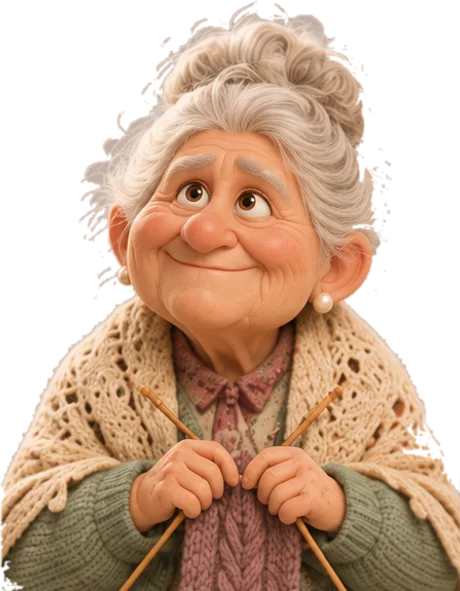
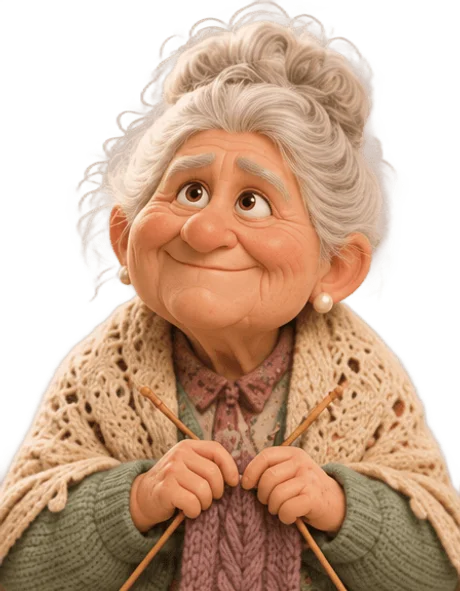
Games: 21 re-cut 3D portraits (Harbour Files Julian, Marcus, Hale, Meg, Ines, Mrs Dunn; Open House Grandma Ivy)
Julian and Marcus had holes in their faces; Hale, Meg, Ines and Grandma Ivy had a light fringe
round the hair; Mrs Dunn (C1 The Missing Logbook) had been drawn as a man in a captain's cap and
is now the woman cleaner. Same file names, manifest entries ?v=hf1 -> ?v=hf3, SW bumped so phones
refetch. Mrs Dunn already speaks in a woman's voice (G2_SEX mystery.dunn = f; voice-gender-check passes).

diff --git a/app/farin-sw.js b/app/farin-sw.js
@@ -1,4 +1,4 @@
-const CACHE = 'farin-english-v60';   // v60 2026-11-27: Harbour Files A1 opening hall (a1-plate-n12-hall-wide-hf.webp, the title card and hub); v59 2026-11-26: 13 Red Suitcase panels fixed (*-hf2.webp: A2 no fez / bowler / torches, the old camera; Whitby out of the window in A1 3.1 and 3.3); v58 v58 2026-11-26: Build It + Magic Words in their 9:16 3D rooms (the 3D lighthouse, doors, medallion, plaque, garden; THEATRE_VER 32); v57 2026-11-26: Open House in 3D (rooms + cut-outs repainted under the same names, manifest ?v=hf2, layers re-boxed); v56 2026-11-26: the quick games play in farin-e9's 9:16 3D rooms (Order Up!, Passport Desk, Listen & Type, Say It Back, Pier Dash, Word Bingo, Mini Cross, Story Hunt, Word Rush) with the 3D cut-outs under the same names; v55 2026-11-26: the game art fills the whole page: every intro poster is full-screen 9:16 key art (games/posters/<kind>-full.webp, the Red Suitcase unlettered cover), the quick-game worlds edge to edge (Theatre 1.4); v54 2026-11-26: Harbour Files redrawn in 3D (story panels, search plates, evidence + finds, the 1970 photos; *-hf.webp), two find boxes moved; v53 v53 2026-11-26: The Red Suitcase's own names (Danny, Nadia, Cobb) with their voices, Higgsfield Then & Now pairs (A1 ch2/4, A2, B2), the 2.6 calendar; v52 v52 2026-11-26: The Red Suitcase albums A2 / B1 / B2 in the Higgsfield painterly art (*-hf.webp, covers cover-hf, real-type signs, engine 0.7.2); v51 v51 2026-11-26: FE from the new art on the membership box (Farin's 11-21 autumn picture, winter from 1 Jan) and Profile (king, wizard, suitcase, binoculars); the old-sheet pictures removed; v50 v50 2026-11-26: the Higgsfield game art (Open House + Harbour Files 3D portraits, the café plates, Passport Desk in the 3D booth, The Red Suitcase A1 painterly panels ch1-6 + ch2 as comic pages + covers); v49 2026-11-26: the last 3D posters + cards, Order Up! shelf pictures without slivers; v48 2026-11-26: Home without the profile and Premium courses boxes, the membership box in brand purple with FE in his season clothes, the settings button opens Profile (FE in a Special / Travel outfit, Settings in its head), Courses in the bottom bar; v47 v47 2026-11-26: Captain in 3D (pt-captain-*.webp, same names); v46 2026-11-26: premium courses only through Plus and Guided (no single-course request or price); vv45 2026-11-26: the games' microphones (Say It Back, Open House free line: tap to stop, no lost taps, says why); v44 2026-11-26: the practice score weighs the whole answer (length, sentences, variety, topic), not just its length; v43 2026-11-26: Messages shows only the chats (no News from Farin list); v42 2026-11-26: card posters with ?v=, image cache fills revalidate (no stale copies), Open House / Harbour Files names; v41 2026-11-26: the new 3D roadmap cards (art/posters/card-*.webp, same names) + 3D posters; v40 2026-11-26: speaking-club dates refresh themselves while a screen stays open, old bookings pruned; vv39 2026-11-25: speaking clubs free for Guided members (free seat request, admin cross-check); vv38 2026-11-25: Guided includes the Thursday speaking clubs free (package text + a My Groups card in the Guided panel), adminMbPlanFor for the clubs; v37 2026-11-25: Order Up! 3D café art, full-body customers (same file names for the shelf items: a new cache); v36 2026-11-25: speaking clubs (My Groups, Speaking Club! roadmap cards, admin Speaking clubs + put a learner in), Group classes section removed; vv35 2026-11-25: premium courses have no price of their own (Plus box: no per-course request link); membership pings can't hide an activation; v34 2026-11-25: Order Up! customer chats + the cozy café look (games/worlds/order/world.css, skins.js order, chat voice clips); v33 2026-11-25: the speaking microphone starts and stops reliably (Round 3 of a speaking card, the Say it chips, course + IELTS recorders); v32 2026-11-25: memberships Free / Plus / Guided (header entry, membership page, manual payments + admin Payments / Members, 48-hour intro offer, Plus box on premium courses, page report in Plus, roadmap invitations); v31 2026-11-25: Premium courses list as picture cards (photo per course, Plus access line); v30 2026-11-25: FEschool intro before the questions, the roadmap build after Go!; v29 2026-11-23: shorter group-class offer with the discount, In app class offers (Messages card, mailbox); v28 2026-11-23: admin Your week, drag a class to another time; v27 2026-11-23: group classes: one time each (new order), 8 seats then a new class, silent refit, codes EA/SA, no mid-private; v26 2026-11-23: group classes of 6–8, class price offer (toman + lira), new course prices; v25 2026-11-21: roadmap v4, the box holds the current card down to the end (page scrolls), finished cards above it out of view; v24 2026-11-21: app icon = white FE face on purple; v22 2026-11-21: the roadmap box scrolls on its own, current card at its top, no earlier-cards bar; v21 2026-11-21: sharp 900 px FE p-cheer, welcome card 300 px; v20 2026-11-21: Home opens at the top, current card first under the earlier-cards bar; v19 2026-11-21: welcome card = FE cheering, 200 px; v18 2026-11-21: admin class rows keep the name column (actions shrink + wrap); v17 2026-11-21: Messages v2 (clean list, brand status pills, admin reply context + edit/delete);   // v16 2026-11-21: welcome card = FE medal + confetti; v15 2026-11-21: admin Group classes, gold frame + Offer sent tick; v14 2026-11-21: roadmap cards (purple/white/orange, no symbols, solid circles, page report card, Home opens on the current card, plan bubble off); v13 2026-11-21: onboarding redesign + welcome screen; v11 2026-11-20: FE white (art/fe, notif/*, icon-*.png repainted under the same names), only the clean pose set
+const CACHE = 'farin-english-v61';   // v61 2026-11-27: 21 portraits re-cut (Harbour Files Julian, Marcus, Hale, Meg, Ines, Mrs Dunn as a woman; Open House Grandma Ivy; ?v=hf3); v60 2026-11-27: Harbour Files A1 opening hall (a1-plate-n12-hall-wide-hf.webp, the title card and hub); v59 2026-11-26: 13 Red Suitcase panels fixed (*-hf2.webp: A2 no fez / bowler / torches, the old camera; Whitby out of the window in A1 3.1 and 3.3); v58 v58 2026-11-26: Build It + Magic Words in their 9:16 3D rooms (the 3D lighthouse, doors, medallion, plaque, garden; THEATRE_VER 32); v57 2026-11-26: Open House in 3D (rooms + cut-outs repainted under the same names, manifest ?v=hf2, layers re-boxed); v56 2026-11-26: the quick games play in farin-e9's 9:16 3D rooms (Order Up!, Passport Desk, Listen & Type, Say It Back, Pier Dash, Word Bingo, Mini Cross, Story Hunt, Word Rush) with the 3D cut-outs under the same names; v55 2026-11-26: the game art fills the whole page: every intro poster is full-screen 9:16 key art (games/posters/<kind>-full.webp, the Red Suitcase unlettered cover), the quick-game worlds edge to edge (Theatre 1.4); v54 2026-11-26: Harbour Files redrawn in 3D (story panels, search plates, evidence + finds, the 1970 photos; *-hf.webp), two find boxes moved; v53 v53 2026-11-26: The Red Suitcase's own names (Danny, Nadia, Cobb) with their voices, Higgsfield Then & Now pairs (A1 ch2/4, A2, B2), the 2.6 calendar; v52 v52 2026-11-26: The Red Suitcase albums A2 / B1 / B2 in the Higgsfield painterly art (*-hf.webp, covers cover-hf, real-type signs, engine 0.7.2); v51 v51 2026-11-26: FE from the new art on the membership box (Farin's 11-21 autumn picture, winter from 1 Jan) and Profile (king, wizard, suitcase, binoculars); the old-sheet pictures removed; v50 v50 2026-11-26: the Higgsfield game art (Open House + Harbour Files 3D portraits, the café plates, Passport Desk in the 3D booth, The Red Suitcase A1 painterly panels ch1-6 + ch2 as comic pages + covers); v49 2026-11-26: the last 3D posters + cards, Order Up! shelf pictures without slivers; v48 2026-11-26: Home without the profile and Premium courses boxes, the membership box in brand purple with FE in his season clothes, the settings button opens Profile (FE in a Special / Travel outfit, Settings in its head), Courses in the bottom bar; v47 v47 2026-11-26: Captain in 3D (pt-captain-*.webp, same names); v46 2026-11-26: premium courses only through Plus and Guided (no single-course request or price); vv45 2026-11-26: the games' microphones (Say It Back, Open House free line: tap to stop, no lost taps, says why); v44 2026-11-26: the practice score weighs the whole answer (length, sentences, variety, topic), not just its length; v43 2026-11-26: Messages shows only the chats (no News from Farin list); v42 2026-11-26: card posters with ?v=, image cache fills revalidate (no stale copies), Open House / Harbour Files names; v41 2026-11-26: the new 3D roadmap cards (art/posters/card-*.webp, same names) + 3D posters; v40 2026-11-26: speaking-club dates refresh themselves while a screen stays open, old bookings pruned; vv39 2026-11-25: speaking clubs free for Guided members (free seat request, admin cross-check); vv38 2026-11-25: Guided includes the Thursday speaking clubs free (package text + a My Groups card in the Guided panel), adminMbPlanFor for the clubs; v37 2026-11-25: Order Up! 3D café art, full-body customers (same file names for the shelf items: a new cache); v36 2026-11-25: speaking clubs (My Groups, Speaking Club! roadmap cards, admin Speaking clubs + put a learner in), Group classes section removed; vv35 2026-11-25: premium courses have no price of their own (Plus box: no per-course request link); membership pings can't hide an activation; v34 2026-11-25: Order Up! customer chats + the cozy café look (games/worlds/order/world.css, skins.js order, chat voice clips); v33 2026-11-25: the speaking microphone starts and stops reliably (Round 3 of a speaking card, the Say it chips, course + IELTS recorders); v32 2026-11-25: memberships Free / Plus / Guided (header entry, membership page, manual payments + admin Payments / Members, 48-hour intro offer, Plus box on premium courses, page report in Plus, roadmap invitations); v31 2026-11-25: Premium courses list as picture cards (photo per course, Plus access line); v30 2026-11-25: FEschool intro before the questions, the roadmap build after Go!; v29 2026-11-23: shorter group-class offer with the discount, In app class offers (Messages card, mailbox); v28 2026-11-23: admin Your week, drag a class to another time; v27 2026-11-23: group classes: one time each (new order), 8 seats then a new class, silent refit, codes EA/SA, no mid-private; v26 2026-11-23: group classes of 6–8, class price offer (toman + lira), new course prices; v25 2026-11-21: roadmap v4, the box holds the current card down to the end (page scrolls), finished cards above it out of view; v24 2026-11-21: app icon = white FE face on purple; v22 2026-11-21: the roadmap box scrolls on its own, current card at its top, no earlier-cards bar; v21 2026-11-21: sharp 900 px FE p-cheer, welcome card 300 px; v20 2026-11-21: Home opens at the top, current card first under the earlier-cards bar; v19 2026-11-21: welcome card = FE cheering, 200 px; v18 2026-11-21: admin class rows keep the name column (actions shrink + wrap); v17 2026-11-21: Messages v2 (clean list, brand status pills, admin reply context + edit/delete);   // v16 2026-11-21: welcome card = FE medal + confetti; v15 2026-11-21: admin Group classes, gold frame + Offer sent tick; v14 2026-11-21: roadmap cards (purple/white/orange, no symbols, solid circles, page report card, Home opens on the current card, plan bubble off); v13 2026-11-21: onboarding redesign + welcome screen; v11 2026-11-20: FE white (art/fe, notif/*, icon-*.png repainted under the same names), only the clean pose set
 const CACHE_PREFIX = CACHE.replace(/\d+$/, '');   // 'farin-english-v' / 'farin-spanish-v'
 const PAGE_URL = self.registration.scope;
 /* Cozy Chores painted art (Trello 1m2Y0zdU, 8JAiLuV7): the game's plates and cut-outs are sibling files
